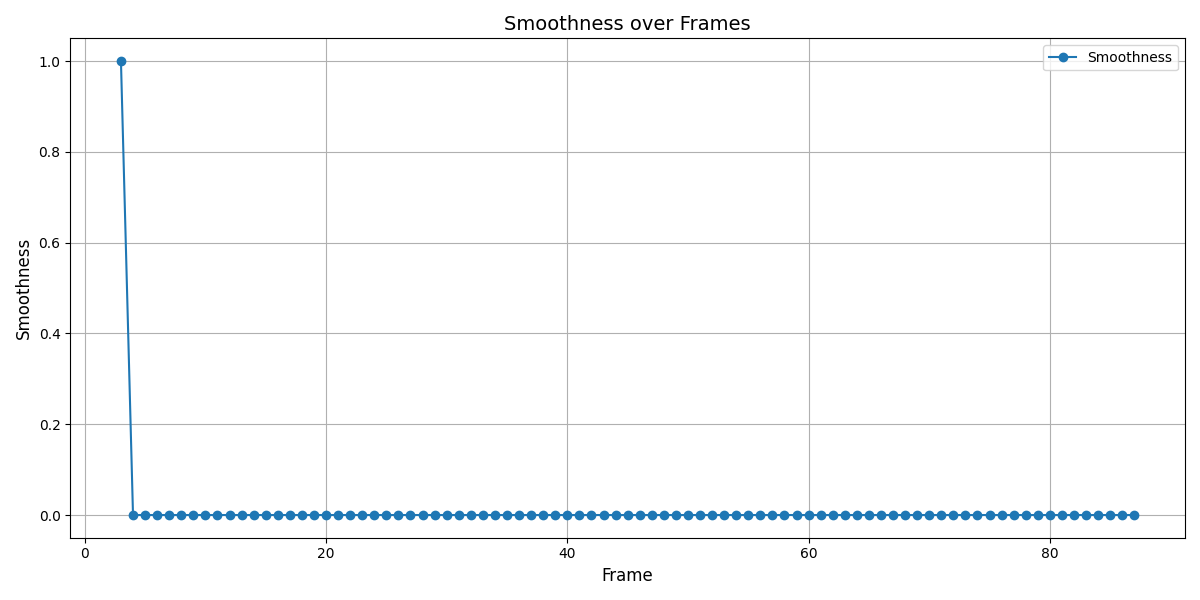
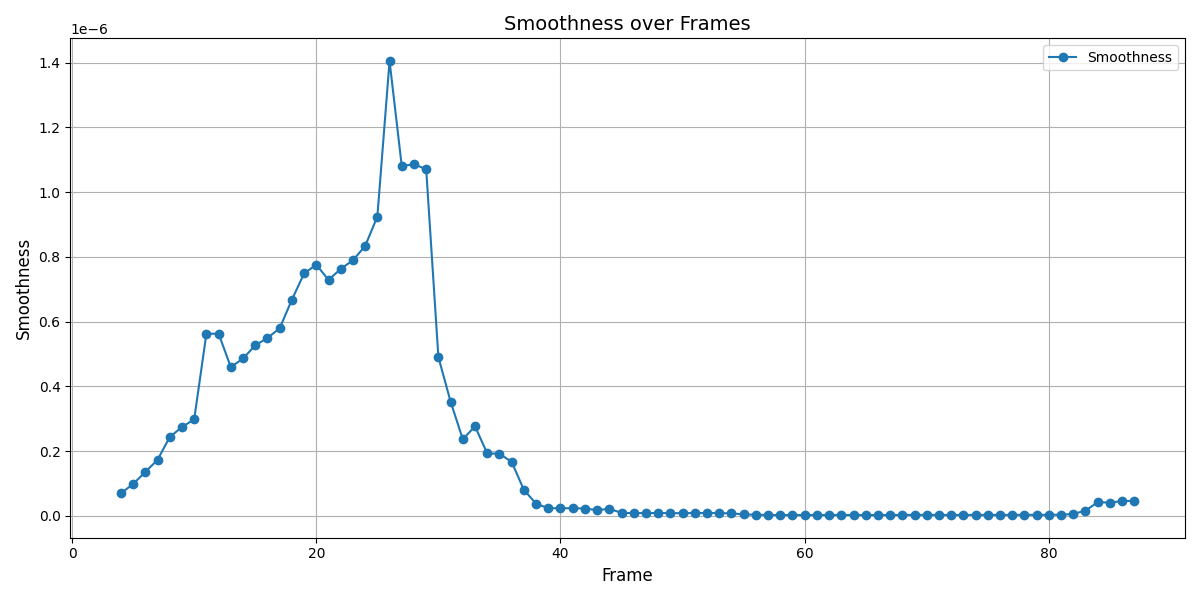
Update plot_line.py to load smoothness data from the jump experiment directory

diff --git a/main/exp/exp2/rec/plot_line.py b/main/exp/exp2/rec/plot_line.py
@@ -54,7 +54,7 @@ def plot_dcr_and_jad(data):
 
 if __name__ == '__main__':
     # Load the data
-    smoothness_data = pd.read_csv('./walk/abnormal/smoothness_values.csv')
+    smoothness_data = pd.read_csv('./jump/succ/smoothness_values_succ.csv')
     # smoothness_data drop first row
     smoothness_data = smoothness_data.drop(0)
     dcr_data = pd.read_csv('./walk/normal/dcr_values.csv')
